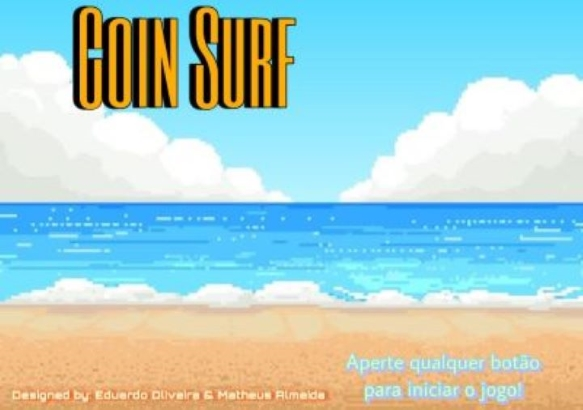
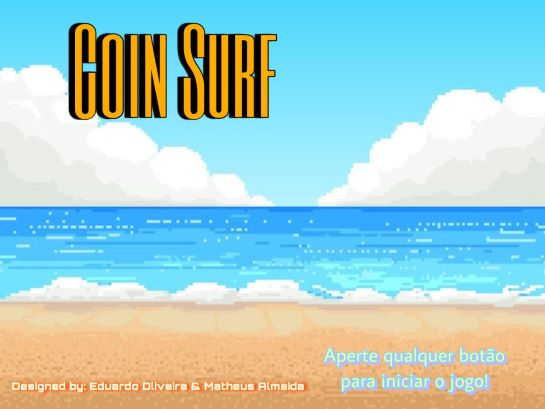
Tela com o manual

diff --git a/game_screen_coin_surf.py b/game_screen_coin_surf.py
@@ -45,9 +45,9 @@ def game_screen(window):
     for i in range(1):
         moeda_verde = Moeda_verde(assets)
         all_sprites.add(moeda_verde)
-        all_moedas_verdes.add(moeda_verde)'''
+        all_moedas_verdes.add(moeda_verde)
 
-    '''# Criando as moedas vermelhas
+    # Criando as moedas vermelhas
     for i in range(1):
         moeda_vermelha = Moeda_vermelha(assets)
         all_sprites.add(moeda_vermelha)
@@ -80,18 +80,18 @@ def game_screen(window):
                     # Dependendo da tecla, altera a velocidade.
                     keys_down[event.key] = True
                     if event.key == pygame.K_UP:
-                        player.speedy -= 8
+                        player.speedy -= 5
                     if event.key == pygame.K_DOWN:
-                        player.speedy += 8
+                        player.speedy += 5
 
                 # Verifica se soltou alguma tecla.
                 if event.type == pygame.KEYUP:
                     # Dependendo da tecla, altera a velocidade.
                     if event.key in keys_down and keys_down[event.key]:
                         if event.key == pygame.K_UP:
-                            player.speedy += 8
+                            player.speedy += 5
                         if event.key == pygame.K_DOWN:
-                            player.speedy -= 8
+                            player.speedy -= 5
 
         # ----- Atualiza estado do jogo
         # Atualizando a posição dos Sharpedos e moedas

diff --git a/manual_screen.py b/manual_screen.py
@@ -1,17 +1,14 @@
 import pygame
 from os import path
 import config_coin_surf
-pygame.mixer.init()
-musica=pygame.mixer.music.load('assets_coin_surf/snd/Red Hot Chili Peppers - Californication (Highest Quality).mp3')
-pygame.mixer.music.set_volume(.3)
-pygame.mixer.music.play()
-def init_screen(screen):
+
+def manual_screen(screen):
 
     # Variável para o ajuste de velocidade
     clock = pygame.time.Clock()
 
     # Carrega o fundo da tela inicial
-    background = pygame.image.load(path.join(config_coin_surf.IMG_DIR, 'tela_inicio_coin_surf.jpg')).convert()
+    background = pygame.image.load(path.join(config_coin_surf.IMG_DIR, 'tela_inicio_2_coin_surf.jpg')).convert()
     background_rect = background.get_rect()
 
     running = True
@@ -28,7 +25,7 @@ def init_screen(screen):
                 running = False
 
             if event.type == pygame.KEYUP:
-                state = config_coin_surf.INIT2
+                state = config_coin_surf.GAME
                 running = False
 
         # A cada loop, redesenha o fundo e os sprites

diff --git a/sprite_coin_surf.py b/sprite_coin_surf.py
@@ -94,7 +94,7 @@ class Moeda_verde(pygame.sprite.Sprite):
         self.rect = self.image.get_rect()
         self.rect.x = WIDTH
         self.rect.y = random.randint((HEIGHT/2), HEIGHT- MOEDA_AMARELA_HEIGHT)
-        self.speedx = -3
+        self.speedx = -5
         self.speedy = 0
 
     def update(self):
@@ -108,7 +108,7 @@ class Moeda_verde(pygame.sprite.Sprite):
             self.image = assets[MOEDA_VERDE_IMG]
             self.rect.x = WIDTH
             self.rect.y = random.randint((HEIGHT/2), HEIGHT- MOEDA_AMARELA_HEIGHT)
-            self.speedx = -3
+            self.speedx = -5
             self.speedy = 0
 
 class Moeda_vermelha(pygame.sprite.Sprite):

diff --git a/Coin_Surf_Game.py b/Coin_Surf_Game.py
@@ -2,9 +2,10 @@
 # ===== Inicialização =====
 # ----- Importa e inicia pacotes
 import pygame
-from config_coin_surf import WIDTH, HEIGHT, INIT, GAME, QUIT
+from config_coin_surf import WIDTH, HEIGHT, INIT, INIT2, GAME, QUIT
 from init_screen_coin_surf import init_screen
 from game_screen_coin_surf import game_screen
+from manual_screen import manual_screen
 
 pygame.init()
 pygame.mixer.init()
@@ -18,6 +19,8 @@ state = INIT
 while state != QUIT:
     if state == INIT:
         state = init_screen(window)
+    if state == INIT2:
+        state = manual_screen(window)
     elif state == GAME:
         state = game_screen(window)
     else:

diff --git a/config_coin_surf.py b/config_coin_surf.py
@@ -11,8 +11,8 @@ HEIGHT = 410 # Altura da tela
 FPS = 90 # Frames por segundo
 
 # Define tamanhos
-SHARPEDO_WIDTH = 90
-SHARPEDO_HEIGHT = 90
+SHARPEDO_WIDTH = 85
+SHARPEDO_HEIGHT = 85
 PIKACHU_WIDTH = 62
 PIKACHU_HEIGHT = 62
 MOEDA_AMARELA_WIDTH = 50
@@ -32,5 +32,6 @@ YELLOW = (255, 255, 0)
 
 # Estados para controle do fluxo da aplicação
 INIT = 0
-GAME = 1
-QUIT = 2
+INIT2 = 1
+GAME = 2
+QUIT = 3
